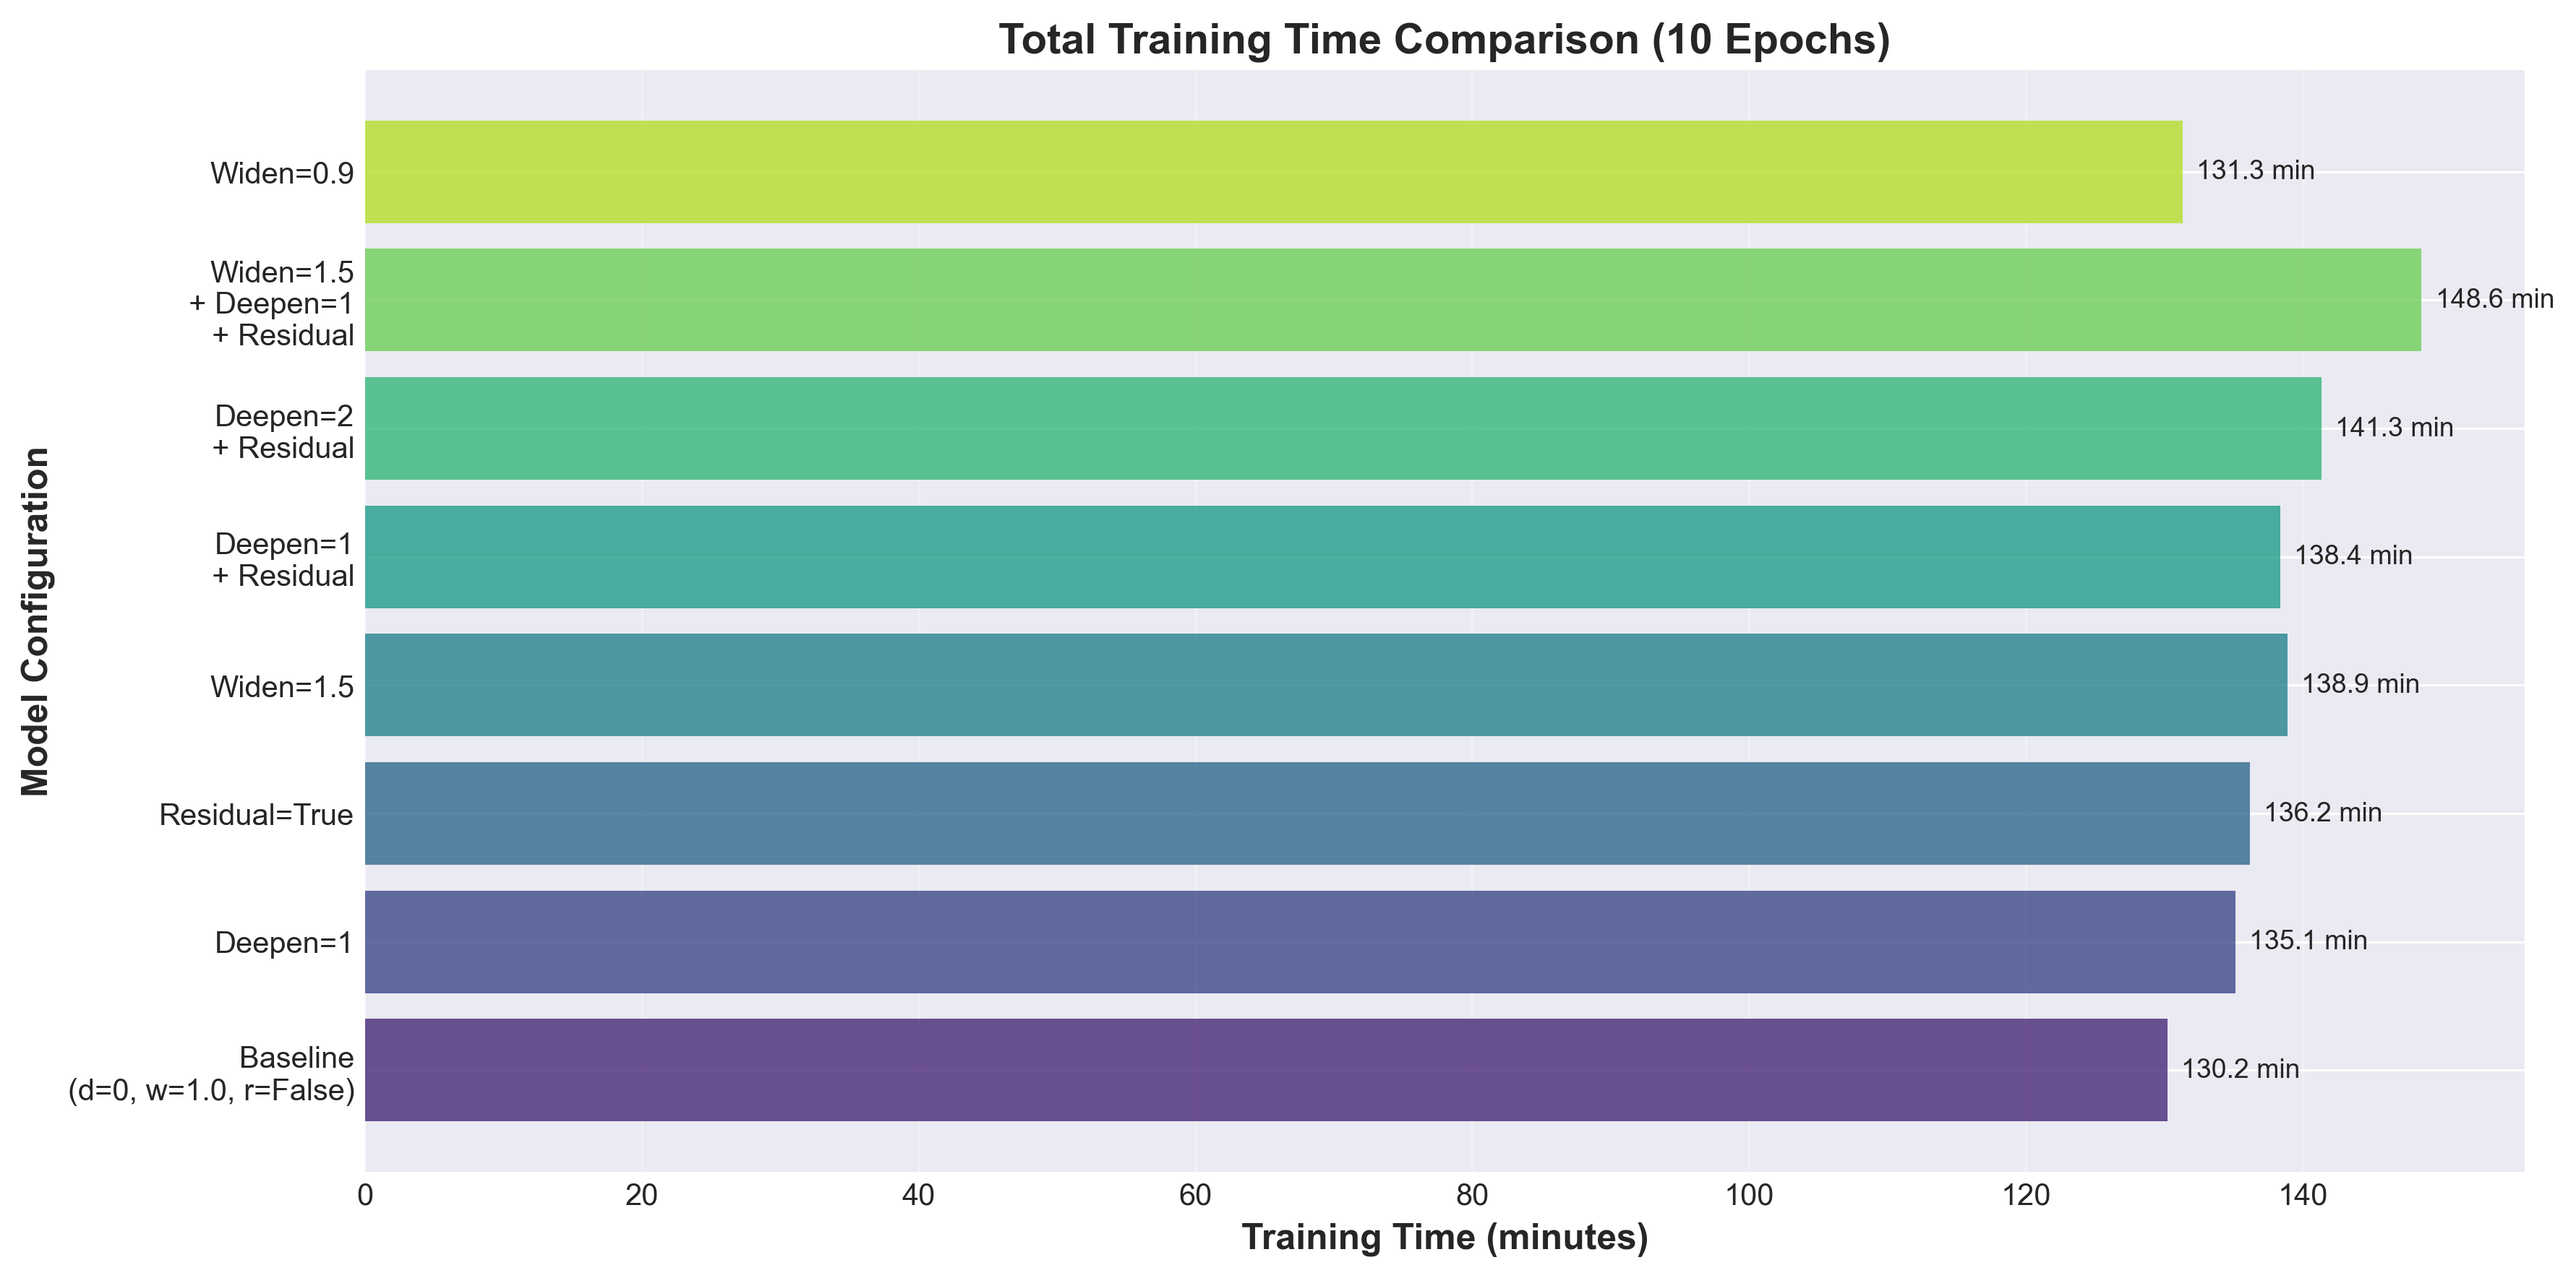
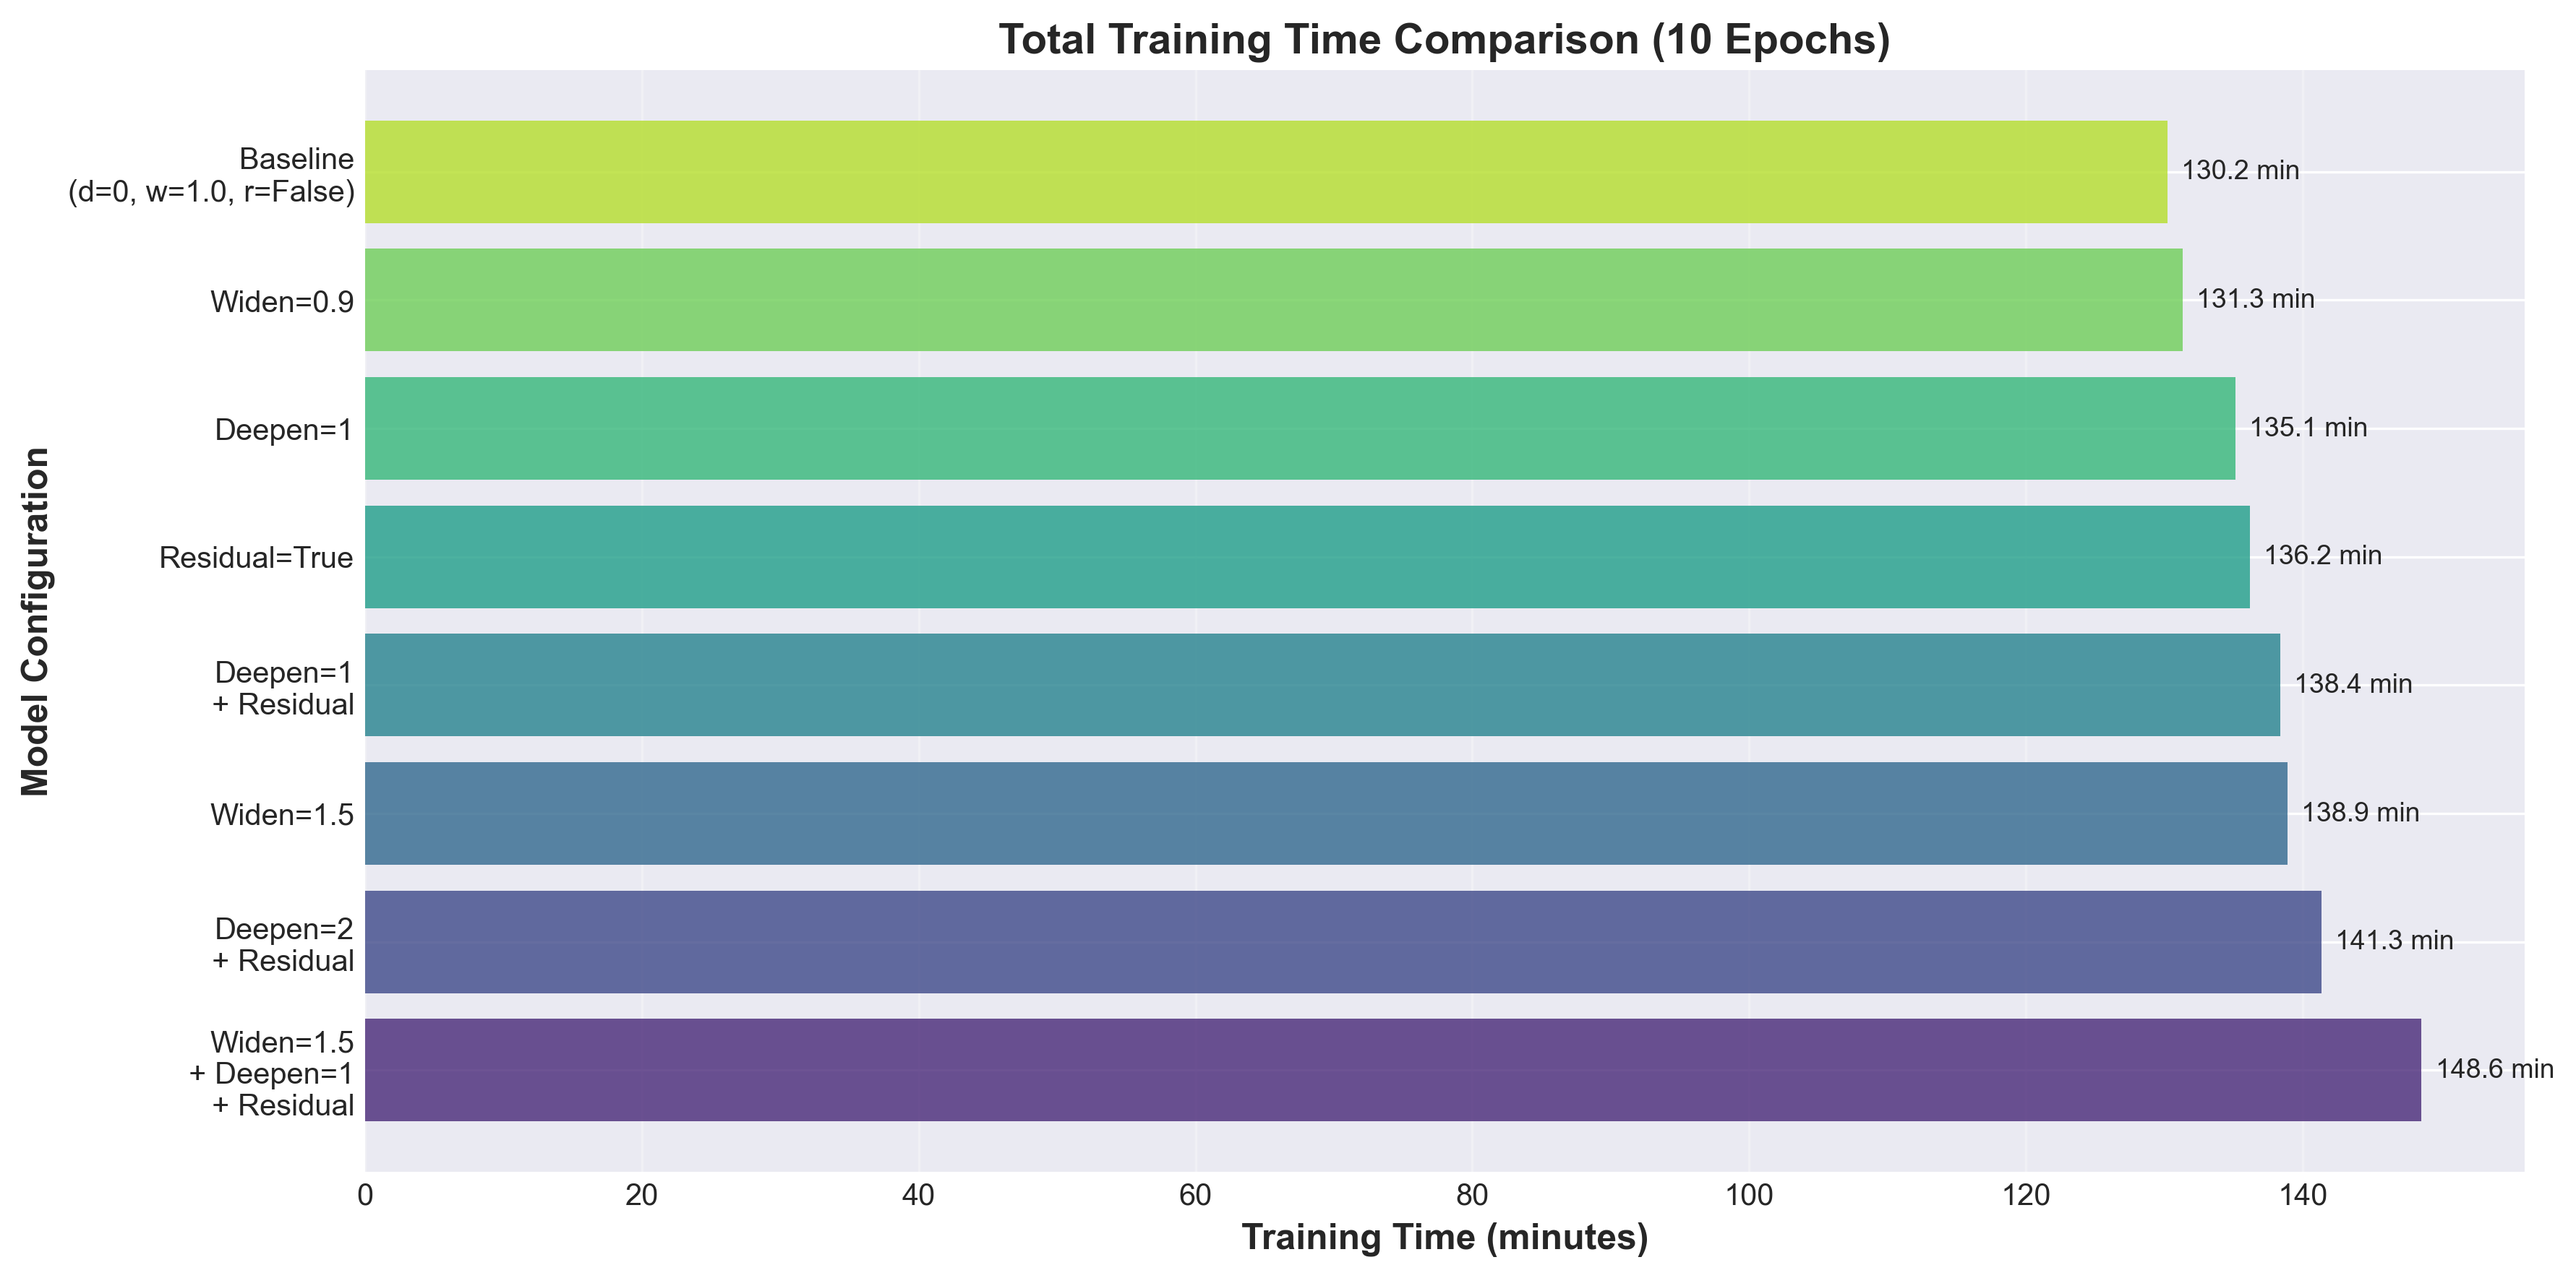
Enhance training time comparison visualization by sorting models and applying a color gradient

diff --git a/Pointnet_Pointnet2_pytorch/visualize_results.py b/Pointnet_Pointnet2_pytorch/visualize_results.py
@@ -189,8 +189,16 @@ plt.close()
 # 4. Training Time Comparison
 training_times = [data['total_time'] for data in training_data.values()]
 
+# Sort by training time (descending) to have baseline on top and longest at bottom
+sorted_indices = sorted(range(len(training_times)), key=lambda i: training_times[i], reverse=True)
+sorted_model_names = [model_names[i] for i in sorted_indices]
+sorted_training_times = [training_times[i] for i in sorted_indices]
+
+# Create color map where longer times get darker colors
+colors = sns.color_palette("viridis", len(sorted_training_times))
+
 fig, ax = plt.subplots(figsize=(12, 6))
-bars = ax.barh(model_names, training_times, alpha=0.8, color=sns.color_palette("viridis", len(model_names)))
+bars = ax.barh(sorted_model_names, sorted_training_times, alpha=0.8, color=colors)
 
 ax.set_xlabel('Training Time (minutes)', fontsize=12, fontweight='bold')
 ax.set_ylabel('Model Configuration', fontsize=12, fontweight='bold')
@@ -198,7 +206,7 @@ ax.set_title('Total Training Time Comparison (10 Epochs)', fontsize=14, fontweig
 ax.grid(True, alpha=0.3, axis='x')
 
 # Add value labels
-for i, (bar, time) in enumerate(zip(bars, training_times)):
+for i, (bar, time) in enumerate(zip(bars, sorted_training_times)):
     ax.text(time + 1, i, f'{time:.1f} min', va='center', fontsize=9)
 
 plt.tight_layout()
